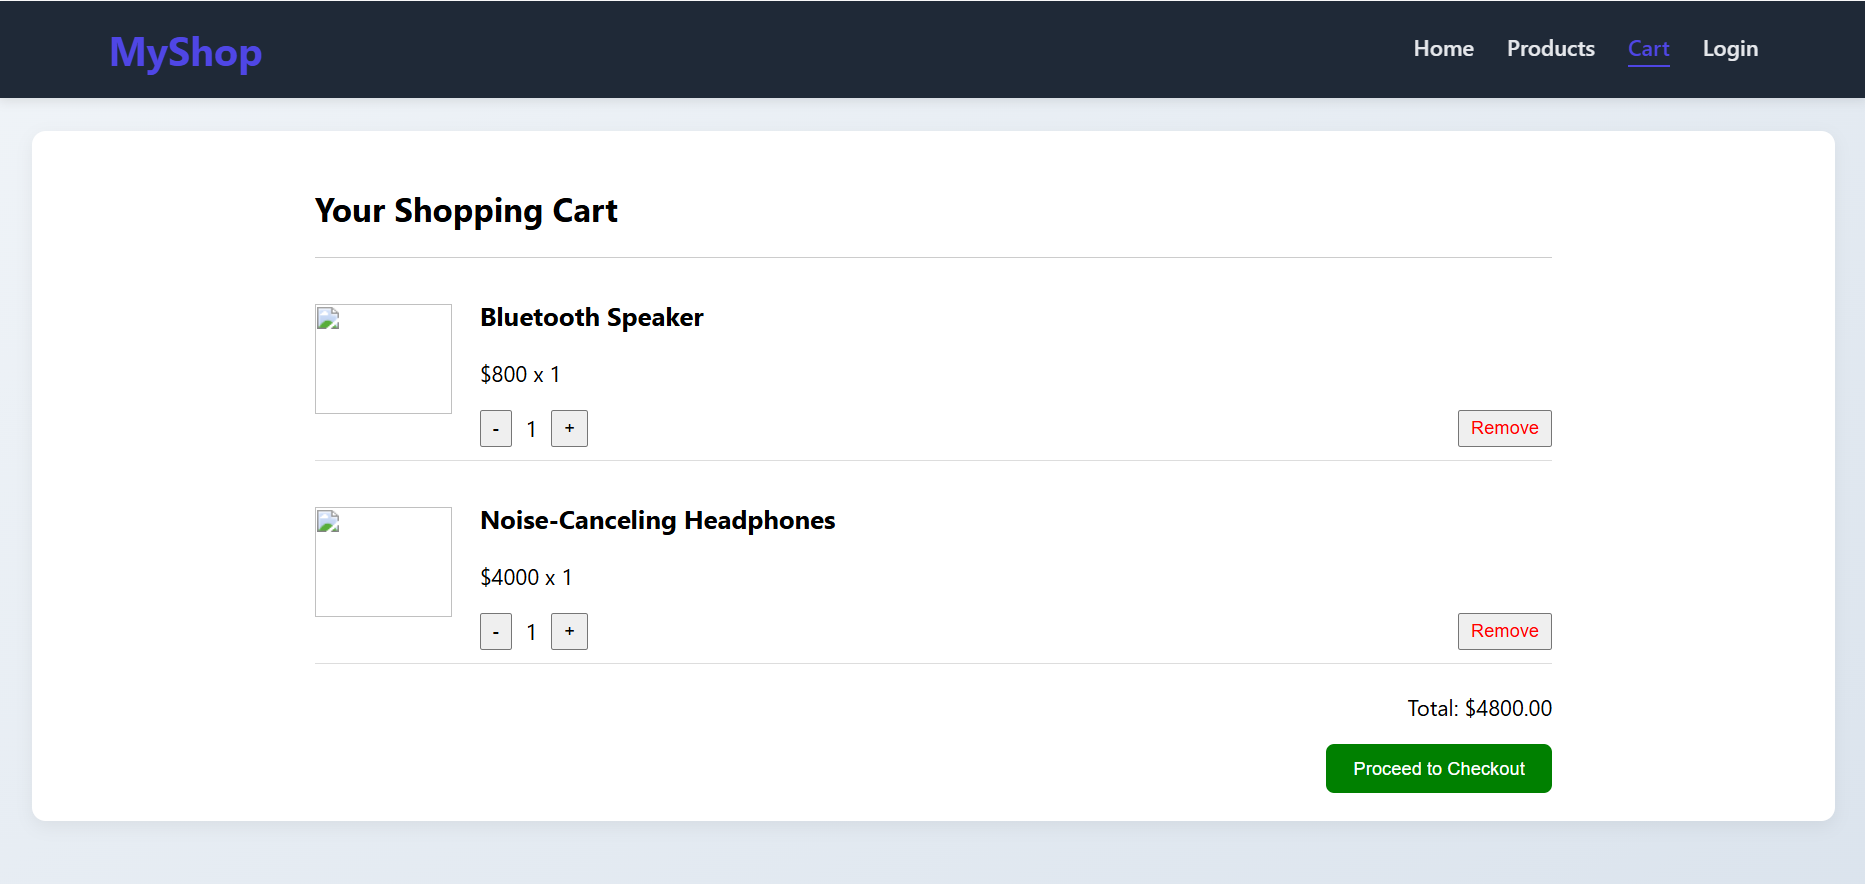
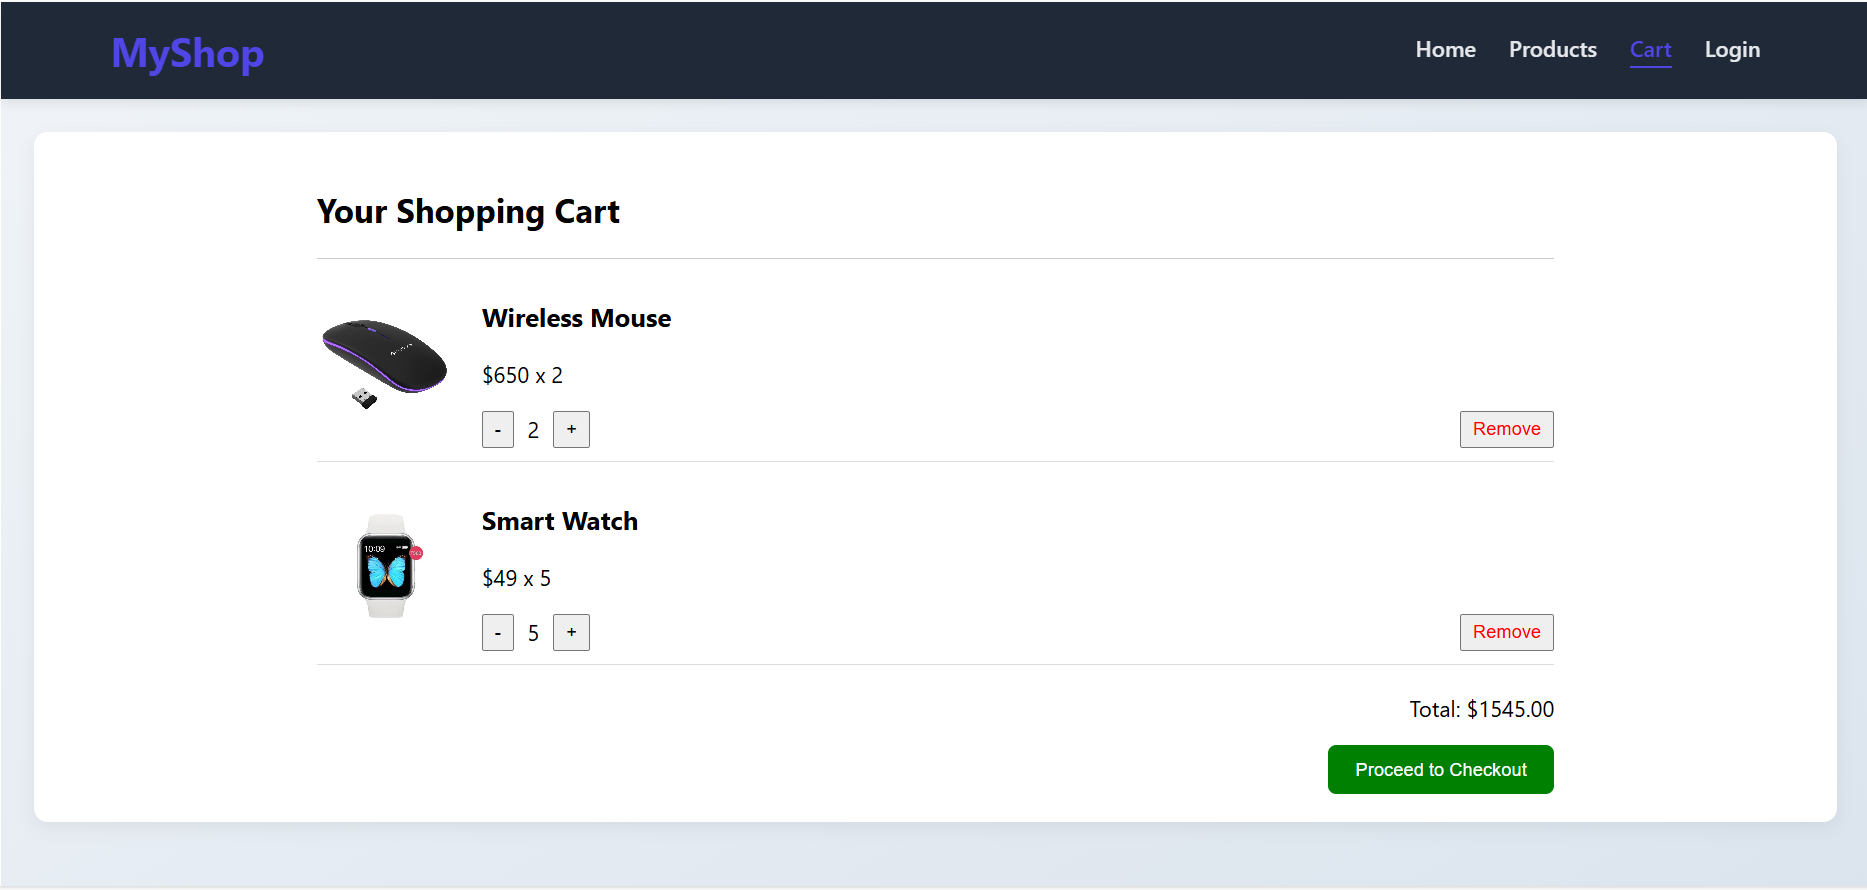
update changes

diff --git a/frontend/src/services/api.js b/frontend/src/services/api.js
@@ -1,7 +1,9 @@
 import axios from 'axios'
 
 const api = axios.create({
-  baseURL:  'http://localhost:8000/api' || 'https://e-commerce-f5fw.onrender.com/api',
+  baseURL:  'https://e-commerce-f5fw.onrender.com/api/' || 'http://localhost:8000/api',
+  // baseURL: 'http://localhost:8000/api',
+  // baseURL:  'https://e-commerce-f5fw.onrender.com/api/',
   headers: {
     'Content-Type': 'application/json'
   }

diff --git a/frontend/src/services/authService.js b/frontend/src/services/authService.js
@@ -2,7 +2,7 @@
 import axios from 'axios'
 
 // const BASE_URL = 'http://127.0.0.1:8000/api'  // adjust if needed
-const BASE_URL =  'http://localhost:8000/api' || 'https://e-commerce-f5fw.onrender.com/api'
+const BASE_URL =  'https://e-commerce-f5fw.onrender.com/api' || 'http://localhost:8000/api'
 export function loginWithOTP(mobile) {
   return axios.post(`${BASE_URL}/auth/login/`, { mobile })
 }

diff --git a/frontend/src/views/ProductList.vue b/frontend/src/views/ProductList.vue
@@ -51,7 +51,7 @@
         :key="product.id"
         class="product-card"
       >
-        <img :src="product.image" alt="product" class="product-image" />
+        <img :src="product.image_url" alt="product" class="product-image" />
         <div class="product-details">
           <h3 class="product-title">{{ product.title }}</h3>
           <p class="product-category">{{ product.category }}</p>

diff --git a/frontend/src/views/CartPage.vue b/frontend/src/views/CartPage.vue
@@ -4,7 +4,7 @@
   
       <div v-if="cartItems.length" class="cart-items">
         <div v-for="item in cartItems" :key="item.id" class="cart-item">
-          <img :src="item.image" class="cart-image" />
+          <img :src="item.image_url" class="cart-image" />
           <div class="cart-info">
             <h3>{{ item.title }}</h3>
             <p>${{ item.price }} x {{ item.quantity }}</p>

diff --git a/frontend/src/store/modules/filters.js b/frontend/src/store/modules/filters.js
@@ -4,7 +4,7 @@ const state = () => ({
     search: '',
     minPrice: 0,
     maxPrice: 1000000,
-    allCategories: ['All', 'Electronics', 'Footwear', 'Accessories', 'Audio','Accessories'],
+    allCategories: ['All', 'Electronics', 'Footwear', 'Accessories', 'Audio','Clothing'],
     priceRange: [0, 1000000]
   })
   

diff --git a/README.md b/README.md
@@ -20,14 +20,18 @@ A simple e-commerce web application built using **Django (DRF)** for the backend
 ![Home Page](screenshots/home.png)
 
 ### 🛍 Most Bought Product  
-![Product List](screenshots/most_bought.png)
+![Product List](screenshots/most-bought.png)
 
 ### 🛒 Cart View  
 ![Cart View](screenshots/cart.png)
 
 ### 🔎 Filter View  
-![Cart View](screenshots/filter1.png)
-![Cart View](screenshots/filter2.png)
+![Filter View-1](screenshots/filter1.png)
+
+![Filter View-2](screenshots/filter2.png)
+
+### 🐱👓 Login View  
+![Login View](screenshots/login.png)
 
 ---
 
@@ -157,3 +161,6 @@ e-commerce/
 ├── .gitignore
 └── README.md
 ```
+
+### Versel deployment Link
+https://e-commerce-gules-nine.vercel.app/
